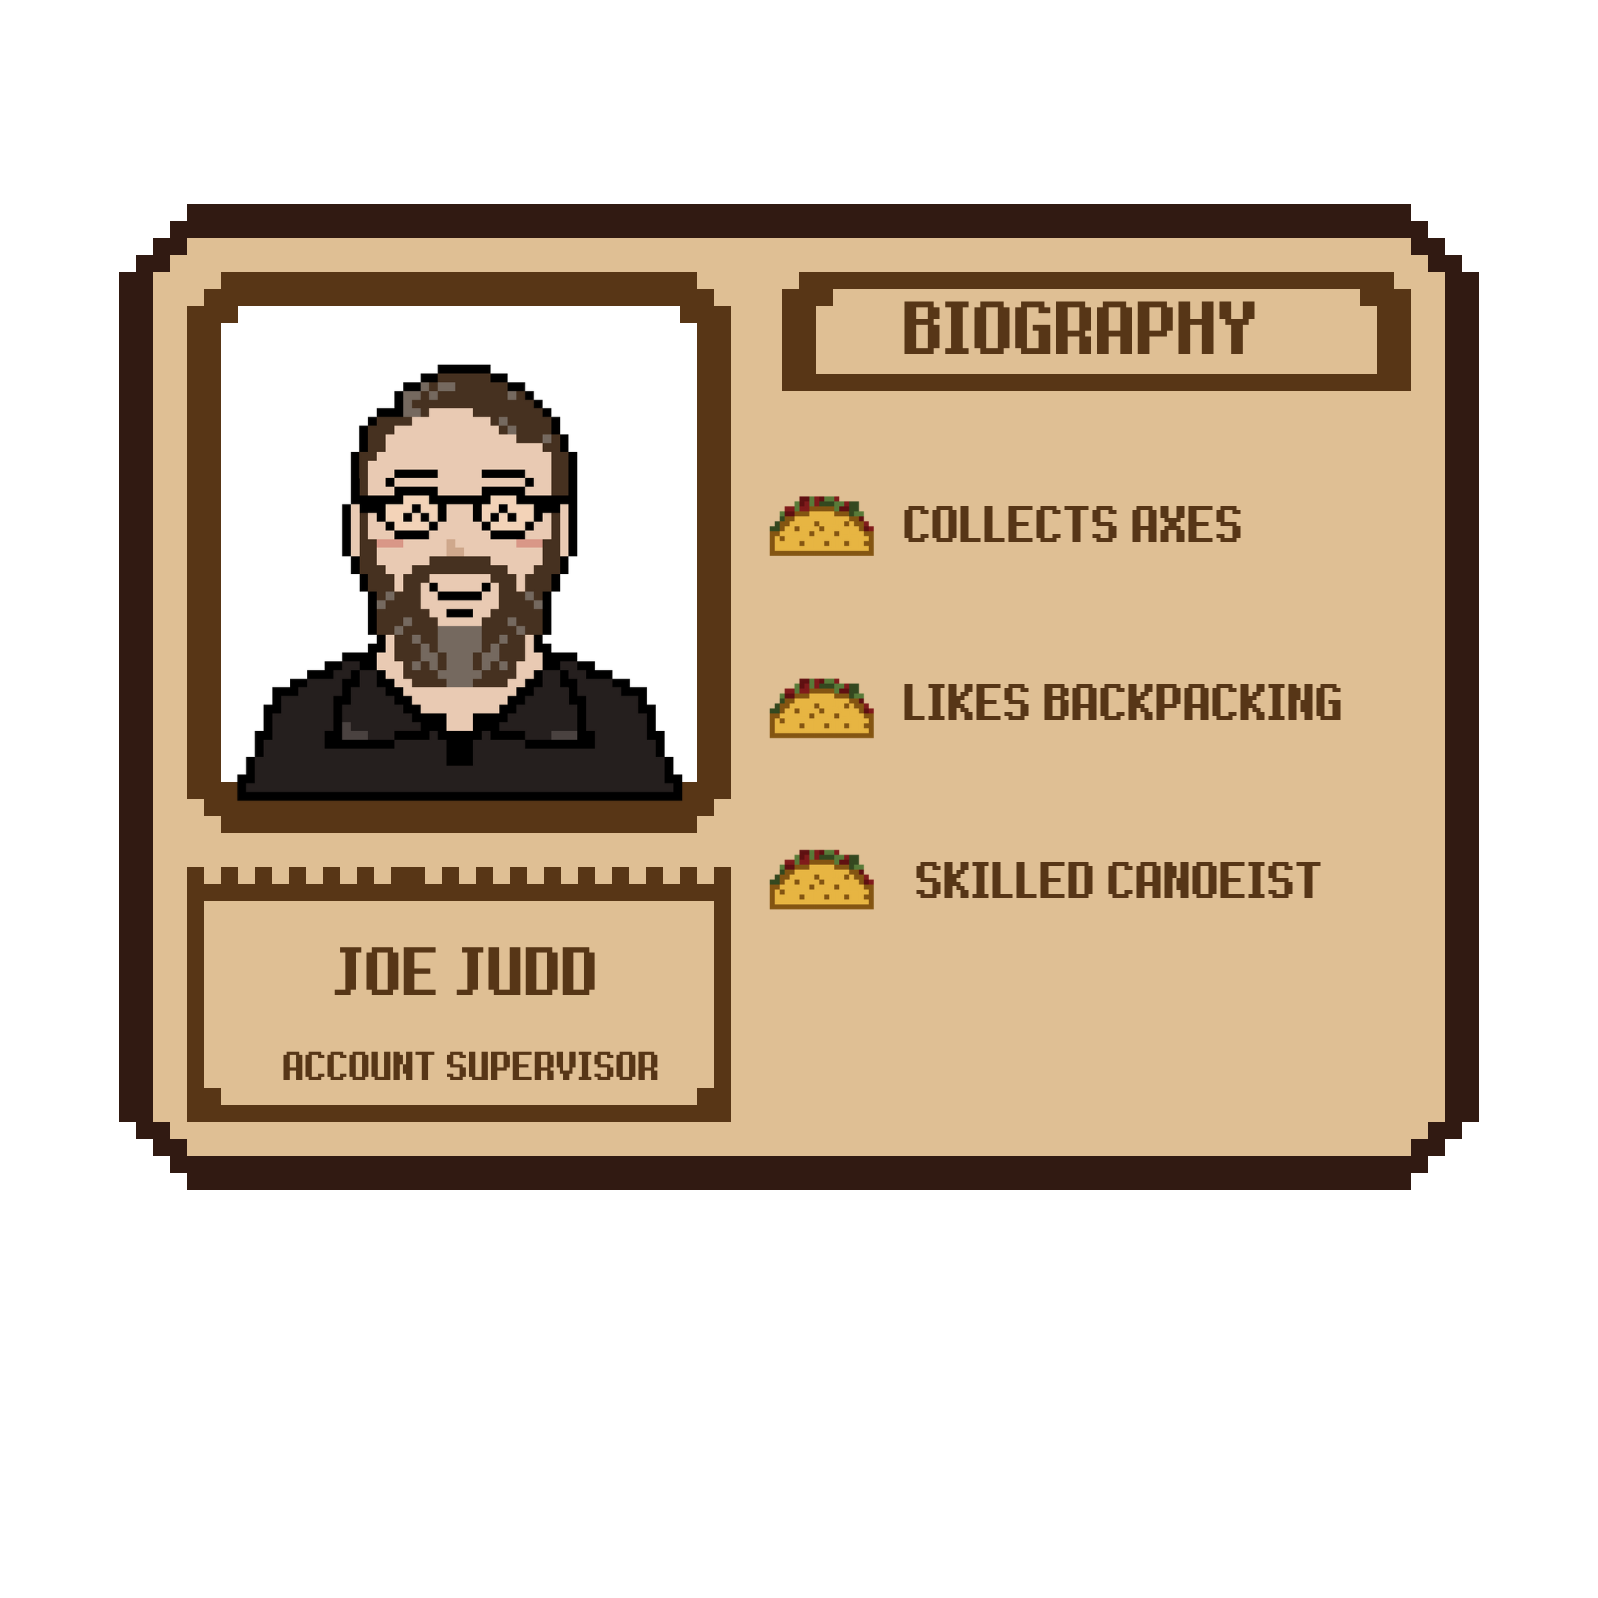
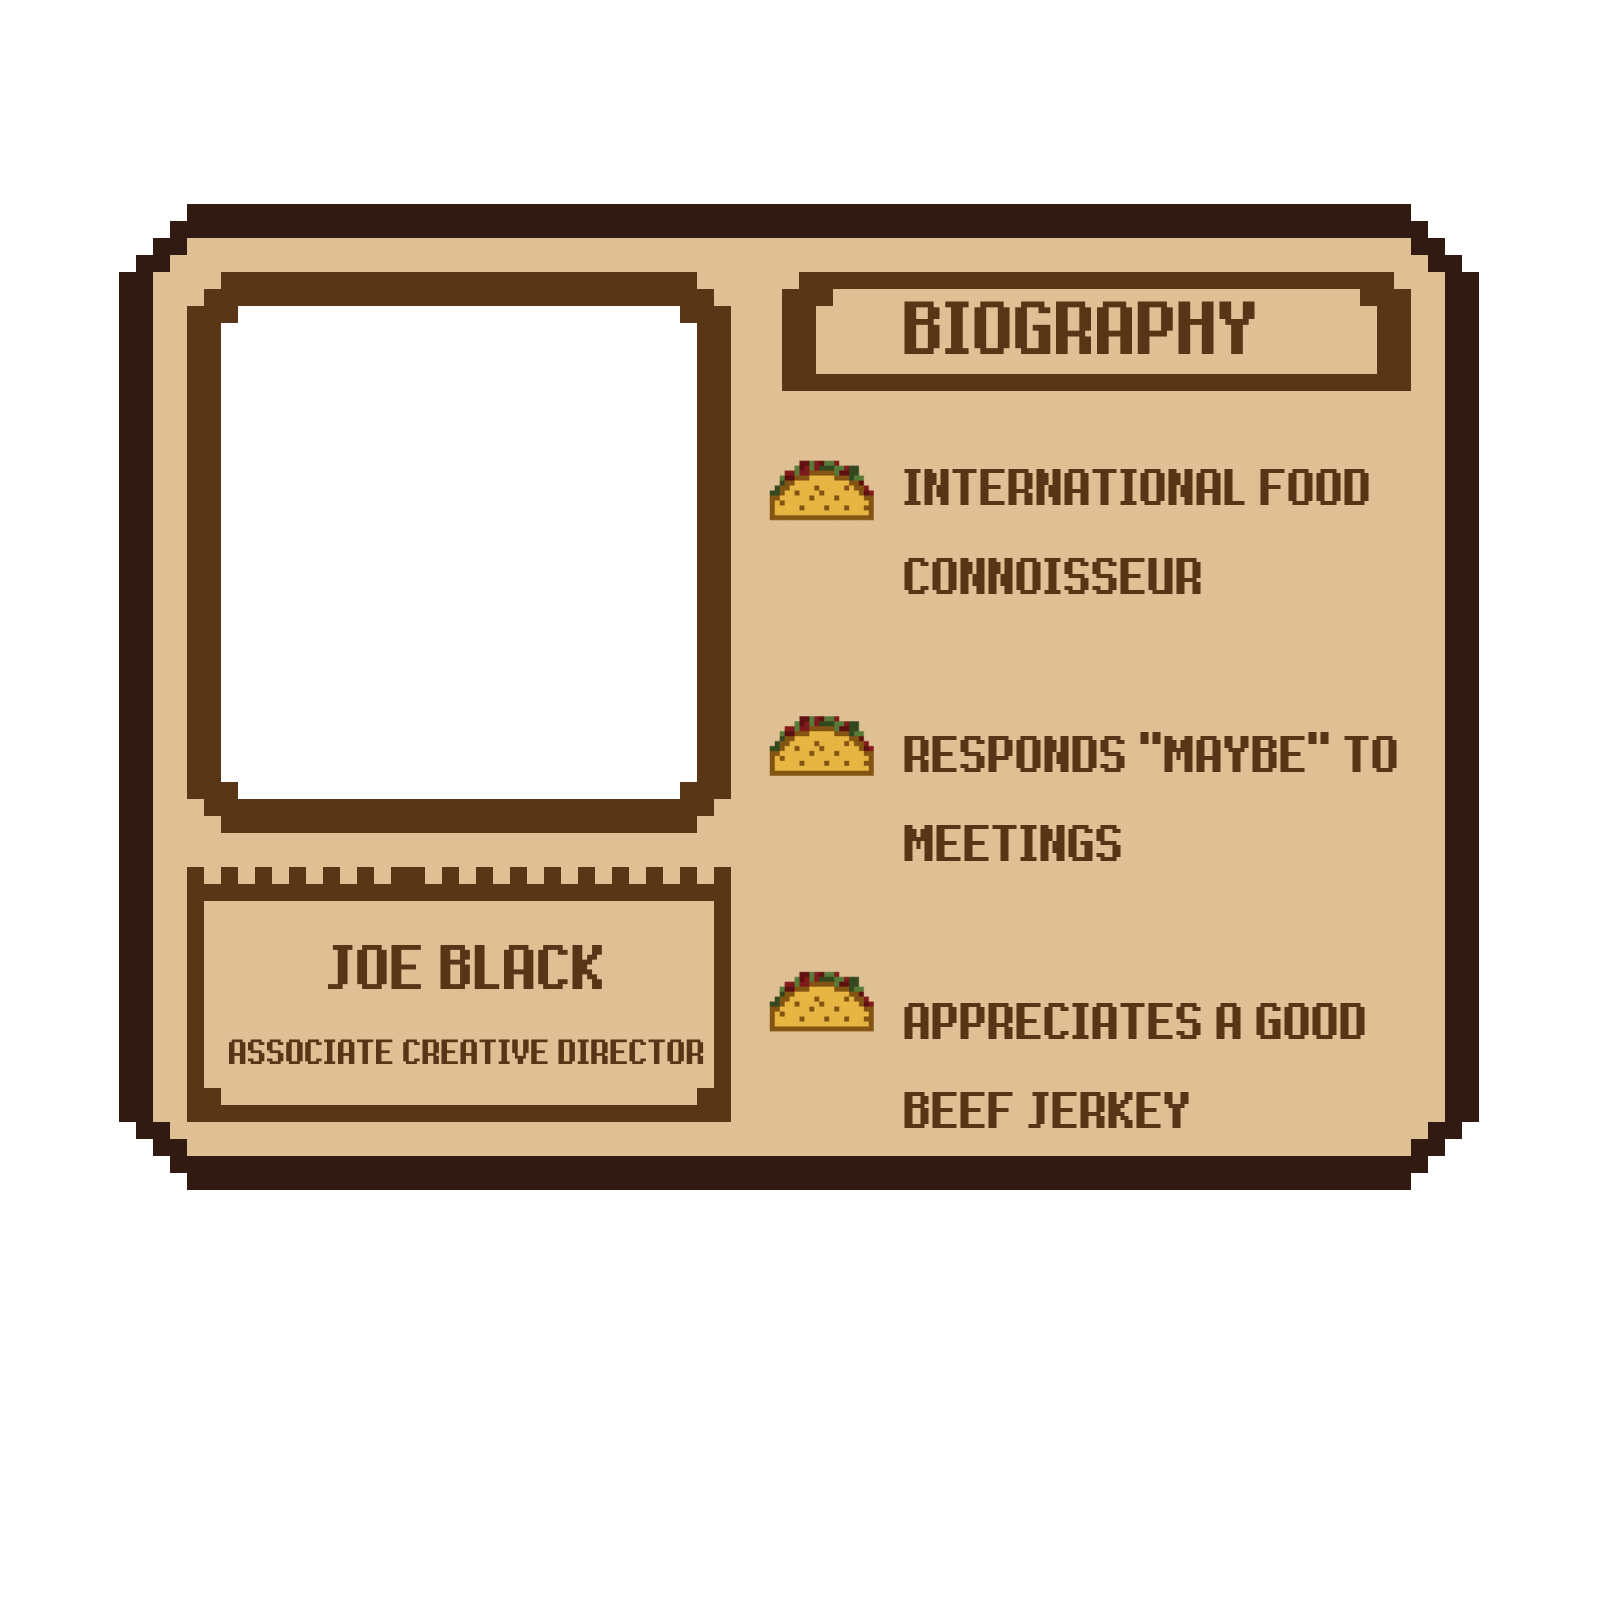
Added new images

diff --git a/js/scripts.js b/js/scripts.js
@@ -1019,32 +1019,32 @@ $(document).ready(function () {
     { name: 'melissa', src: 'img/Melissa.png', profile: 'img/profiles-Melissa.png' },
     { name: 'michaela', src: 'img/Michaela.png', profile: 'img/profiles-Michaela.png' },
     { name: 'natalie', src: 'img/Natalie.png', profile: 'img/profiles-Natalie.png' },
-    { name: 'anne', src: 'img/Anne.png', profile: 'img/profiles-Jody.png' },
-    { name: 'carlee', src: 'img/Carlee.png', profile: 'img/profiles-Jody.png' },
-    { name: 'von', src: 'img/Von.png', profile: 'img/profiles-Jody.png' },
-    { name: 'chad', src: 'img/Chad.png', profile: 'img/profiles-Jody.png' },
+    { name: 'anne', src: 'img/Anne.png', profile: 'img/profiles-Anne.png' },
+    { name: 'carlee', src: 'img/Carlee.png', profile: 'img/profiles-Carlee.png' },
+    { name: 'von', src: 'img/Von.png', profile: 'img/profiles-Von.png' },
+    { name: 'chad', src: 'img/Chad.png', profile: 'img/profiles-Chad.png' },
     { name: 'chris', src: 'img/Chris.png', profile: 'img/profiles-Chris.png' },
-    { name: 'evan', src: 'img/Evan.png', profile: 'img/profiles-Jody.png' },
-    { name: 'grace', src: 'img/Grace.png', profile: 'img/profiles-Jody.png' },
+    { name: 'evan', src: 'img/Evan.png', profile: 'img/profiles-Evan.png' },
+    { name: 'grace', src: 'img/Grace.png', profile: 'img/profiles-Grace.png' },
     { name: 'macey', src: 'img/Macey.png', profile: 'img/profiles-Macey.png' },
     { name: 'joe b.', src: 'img/Joe B..png', profile: 'img/profiles-Joe-B.png' },
-    { name: 'jonathan', src: 'img/Jonathan.png', profile: 'img/profiles-Jody.png' },
-    { name: 'konah', src: 'https://placehold.co/250x250', profile: 'img/profiles-Jody.png' },
-    { name: 'monika', src: 'https://placehold.co/250x250', profile: 'img/profiles-Jody.png' },
-    { name: 'nicholas', src: 'https://placehold.co/250x250', profile: 'img/profiles-Jody.png' },
-    { name: 'nick', src: 'https://placehold.co/250x250', profile: 'img/profiles-Jody.png' },
-    { name: 'rob', src: 'https://placehold.co/250x250', profile: 'img/profiles-Jody.png' },
-    { name: 'shelby', src: 'https://placehold.co/250x250', profile: 'img/profiles-Jody.png' },
-    { name: 'alex s.', src: 'img/Alex S..png', profile: 'img/profiles-Jody.png' },
+    { name: 'jonathan', src: 'img/Jonathan.png', profile: 'img/profiles-Jonathan.png' },
+    { name: 'konah', src: 'https://placehold.co/250x250', profile: 'img/profiles-Konah.png' },
+    { name: 'monika', src: 'https://placehold.co/250x250', profile: 'img/profiles-Monika.png' },
+    { name: 'nicholas', src: 'https://placehold.co/250x250', profile: 'img/profiles-Nicholas.png' },
+    { name: 'nick', src: 'https://placehold.co/250x250', profile: 'img/profiles-Nick.png' },
+    { name: 'rob', src: 'https://placehold.co/250x250', profile: 'img/profiles-Rob.png' },
+    { name: 'shelby', src: 'https://placehold.co/250x250', profile: 'img/profiles-Shelby.png' },
+    { name: 'alex s.', src: 'img/Alex S..png', profile: 'img/profiles-Alex-S.png' },
     { name: 'jody', src: 'img/Jody.png', profile: 'img/profiles-Jody.png' },
-    { name: 'mary', src: 'https://placehold.co/250x250' },
+    { name: 'mary', src: 'https://placehold.co/250x250', profile: 'img/profiles-Mary.png' },
     { name: 'lisa', src: 'img/Lisa.png', profile: 'img/profiles-Lisa.png' },
-    { name: 'joel', src: 'img/Joel.png', profile: 'img/profiles-Jody.png' },
-    { name: 'mandy', src: 'img/Mandy.png', profile: 'img/profiles-Jody.png' },
-    { name: 'marissa', src: 'img/Marissa.png', profile: 'img/profiles-Jody.png' },
-    { name: 'rachel', src: 'img/Rachel.png', profile: 'img/profiles-Jody.png' },
-    { name: 'rebecca', src: 'img/Rebecca.png', profile: 'img/profiles-Jody.png' },
-    { name: 'zarrien', src: 'img/Zarrien.png', profile: 'img/profiles-Jody.png' },
+    { name: 'joel', src: 'img/Joel.png', profile: 'img/profiles-Joel.png' },
+    { name: 'mandy', src: 'img/Mandy.png', profile: 'img/profiles-Mandy.png' },
+    { name: 'marissa', src: 'img/Marissa.png', profile: 'img/profiles-Marissa.png' },
+    { name: 'rachel', src: 'img/Rachel.png', profile: 'img/profiles-Rachel.png' },
+    { name: 'rebecca', src: 'img/Rebecca.png', profile: 'img/profiles-Rebecca.png' },
+    { name: 'zarrien', src: 'img/Zarrien.png', profile: 'img/profiles-Zarrien.png' },
     { name: 'brian', src: 'img/Brian.png', profile: 'img/profiles-Brian.png' },
     { name: 'eric', src: 'img/Eric.png', profile: 'img/profiles-Eric.png' },
     { name: 'josh', src: 'img/Josh.png', profile: 'img/profiles-Josh.png' },
